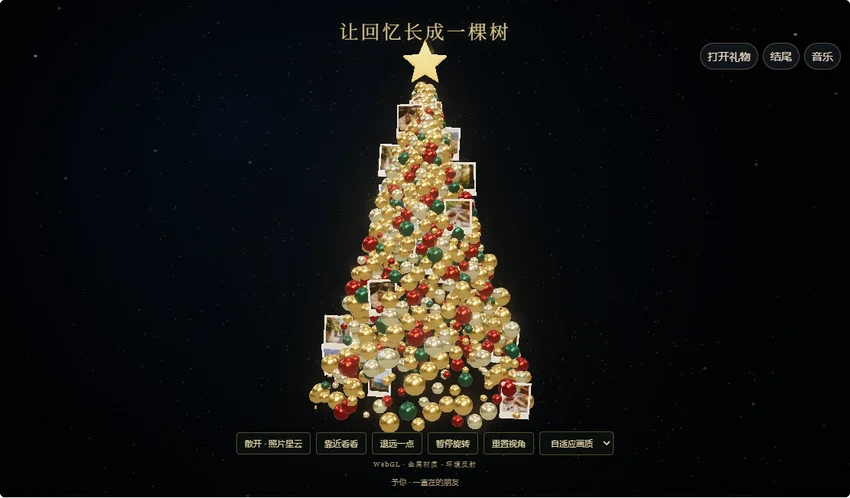
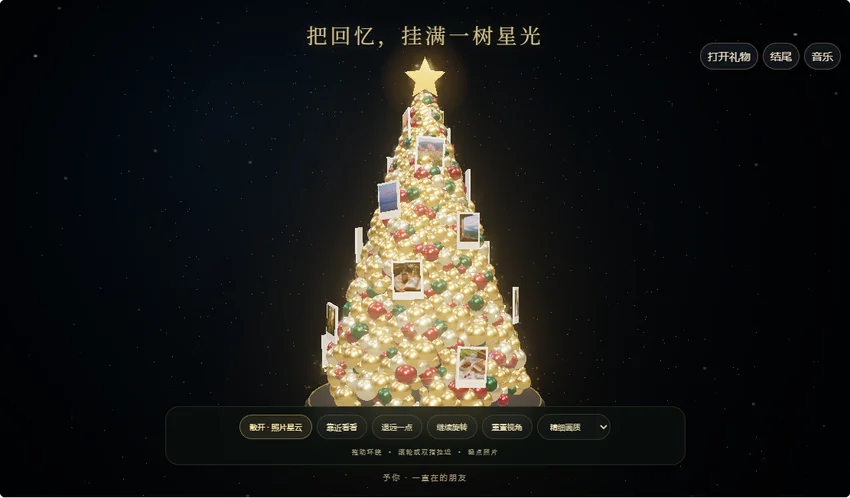
feat(tree): polish metallic ornaments, lighting and memory cloud

Changed region(s): [[0.2753, 0.0301, 0.7341, 0.994]]

diff --git a/tree-webgl.js b/tree-webgl.js
@@ -12,25 +12,25 @@ const rand=n=>{const x=Math.sin(n*127.13+31.77)*43758.5453;return x-Math.floor(x
 function make(stage,gift,design){
  const canvas=document.createElement('canvas');canvas.className='gift-webgl-canvas';canvas.setAttribute('aria-label','金色装饰球与照片构成的三维树，拖动旋转、滚轮或双指缩放，点击照片查看');
  let renderer;try{renderer=new THREE.WebGLRenderer({canvas,antialias:false,alpha:false,powerPreference:'high-performance'});}catch(e){throw Error('当前设备无法启用 WebGL，已保留基础照片树。');}
- renderer.setClearColor(0x030504);renderer.toneMapping=THREE.ACESFilmicToneMapping;renderer.toneMappingExposure=.8;renderer.outputColorSpace=THREE.SRGBColorSpace;stage.append(canvas);
+ renderer.setClearColor(0x030504);renderer.toneMapping=THREE.ACESFilmicToneMapping;renderer.toneMappingExposure=.88;renderer.outputColorSpace=THREE.SRGBColorSpace;stage.append(canvas);
  const scene=new THREE.Scene();scene.fog=new THREE.FogExp2(0x030504,.012);
- const camera=new THREE.PerspectiveCamera(43,1,.1,120);camera.position.set(0,.4,15.7);
+ const camera=new THREE.PerspectiveCamera(43,1,.1,120);camera.position.set(0,.4,17.1);
  const controls=new OrbitControls(camera,canvas);controls.enableDamping=true;controls.dampingFactor=.07;controls.target.set(0,-.15,0);controls.minDistance=3.2;controls.maxDistance=25;controls.enablePan=true;controls.autoRotate=!reduced.matches;controls.autoRotateSpeed=.35;controls.maxPolarAngle=Math.PI*.91;controls.minPolarAngle=.12;
- const pmrem=new THREE.PMREMGenerator(renderer),room=new RoomEnvironment();const environment=pmrem.fromScene(room,.04);scene.environment=environment.texture;scene.environmentIntensity=.7;room.dispose();pmrem.dispose();
- scene.add(new THREE.HemisphereLight(0xffeac4,0x10151c,.6));const key=new THREE.DirectionalLight(0xfff4d6,2);key.position.set(3,6,5);scene.add(key);const rim=new THREE.DirectionalLight(0xc4d7ff,1.4);rim.position.set(-5,3,-2);scene.add(rim);const warm=new THREE.PointLight(0xffb84a,12,22,2);warm.position.set(-3,1,4);scene.add(warm);
- const composer=new EffectComposer(renderer);composer.addPass(new RenderPass(scene,camera));const bloom=new UnrealBloomPass(new THREE.Vector2(600,600),.25,.28,2.7);composer.addPass(bloom);composer.addPass(new OutputPass());
- let group=null,items=[],photoMeshes=[],generation=0,currentGift,currentDesign,spread=0,targetSpread=0,quality='auto',automatic=true,frame=0,last=0,lastDraw=0,disposed=false,size='',pointer=null,frames=[],fpsSamples=0,builtMobile=null;
+ const pmrem=new THREE.PMREMGenerator(renderer),room=new RoomEnvironment();const environment=pmrem.fromScene(room,.04);scene.environment=environment.texture;scene.environmentIntensity=.8;room.dispose();pmrem.dispose();
+ scene.add(new THREE.HemisphereLight(0xffeac4,0x10151c,.6));const key=new THREE.DirectionalLight(0xfff4d6,2.3);key.position.set(3,6,5);scene.add(key);const rim=new THREE.DirectionalLight(0xbacfff,1.5);rim.position.set(-5,3,-2);scene.add(rim);const warm=new THREE.PointLight(0xffb84a,12,22,2);warm.position.set(-3,1,4);scene.add(warm);
+ const composer=new EffectComposer(renderer);composer.addPass(new RenderPass(scene,camera));const bloom=new UnrealBloomPass(new THREE.Vector2(600,600),.35,.3,2.5);composer.addPass(bloom);composer.addPass(new OutputPass());
+ let group=null,items=[],photoMeshes=[],generation=0,currentGift,currentDesign,spread=0,targetSpread=0,quality='auto',automatic=!reduced.matches,frame=0,last=0,lastDraw=0,disposed=false,size='',pointer=null,frames=[],fpsSamples=0,builtMobile=null,lastSpread=-1,starLight=null,sparkles=null,ground=null,garland=null,ornamentCount=0;
  const raycaster=new THREE.Raycaster(),mouse=new THREE.Vector2(),temp=new THREE.Object3D(),targetVector=new THREE.Vector3();
  const ui=document.createElement('div');ui.className='tree-webgl-controls';
  const button=(text,fn)=>{const b=document.createElement('button');b.textContent=text;b.onclick=fn;ui.append(b);return b;};
  const burst=button('散开 · 照片星云',()=>{targetSpread=targetSpread?0:1;burst.textContent=targetSpread?'聚合 · 圣诞树':'散开 · 照片星云';});
  button('靠近看看',()=>camera.position.lerp(controls.target,.25));button('退远一点',()=>camera.position.sub(controls.target).multiplyScalar(1.3).add(controls.target));
- const rotate=button('暂停旋转',()=>{automatic=!automatic;controls.autoRotate=automatic;rotate.textContent=automatic?'暂停旋转':'继续旋转';});
- button('重置视角',()=>{camera.position.set(0,.4,15.7);controls.target.set(0,-.15,0);controls.update();});
+ const rotate=button(automatic?'暂停旋转':'继续旋转',()=>{automatic=!automatic;controls.autoRotate=automatic;rotate.textContent=automatic?'暂停旋转':'继续旋转';});
+ button('重置视角',()=>{camera.position.set(0,.4,17.1);controls.target.set(0,-.15,0);controls.update();});
  const qualitySelect=document.createElement('select');qualitySelect.setAttribute('aria-label','照片树画质');qualitySelect.innerHTML='<option value="auto">自适应画质</option><option value="low">流畅画质</option><option value="high">精细画质</option>';qualitySelect.onchange=()=>{quality=qualitySelect.value;size='';bloom.enabled=quality!=='low';};ui.append(qualitySelect);
- const status=document.createElement('span');status.className='tree-webgl-status';status.textContent='WebGL · 金属材质 · 环境反射';ui.append(status);stage.append(ui);ui.addEventListener('pointerdown',e=>e.stopPropagation());
+ const status=document.createElement('span');status.className='tree-webgl-status';status.textContent='拖动环绕 · 滚轮或双指拉近 · 轻点照片';ui.append(status);stage.append(ui);ui.addEventListener('pointerdown',e=>e.stopPropagation());
  function releaseGroup(){if(!group)return;const geometries=new Set(),materials=new Set(),textures=new Set();group.traverse(n=>{if(n.geometry)geometries.add(n.geometry);for(const m of n.material?(Array.isArray(n.material)?n.material:[n.material]):[]){materials.add(m);if(m.map)textures.add(m.map);}});geometries.forEach(g=>g.dispose());textures.forEach(t=>t.dispose());materials.forEach(m=>m.dispose());scene.remove(group);group=null;items=[];photoMeshes=[];}
- function assembled(i,count){const t=(i+.5)/count,a=i*2.399963,tree=currentDesign.tree;let y=3.8-t*7.7,r=(.13+t*2.65)*(.76+.24*rand(i+5));if(tree==='sakura'){const p=Math.acos(1-2*t);return new THREE.Vector3(Math.sin(p)*Math.cos(a)*3.3,Math.cos(p)*2.1+1.1,Math.sin(p)*Math.sin(a)*3);}if(tree==='willow'){r=2.9*Math.sin(t*Math.PI*.55);y=3.6-7.4*t*t;}return new THREE.Vector3(Math.cos(a)*r,y,Math.sin(a)*r);}
+ function assembled(i,count){const t=(i+.5)/count,a=i*2.399963,tree=currentDesign.tree;let y=3.8-t*7.7,r=(.13+t*2.65)*(.84+.16*rand(i+5));if(tree==='sakura'){const p=Math.acos(1-2*t);return new THREE.Vector3(Math.sin(p)*Math.cos(a)*3.3,Math.cos(p)*2.1+1.1,Math.sin(p)*Math.sin(a)*3);}if(tree==='willow'){r=2.9*Math.sin(t*Math.PI*.55);y=3.6-7.4*t*t;}return new THREE.Vector3(Math.cos(a)*r,y,Math.sin(a)*r);}
  function scattered(i){const a=i*2.399963,t=rand(i+13),r=3+rand(i+29)*4.7;return new THREE.Vector3(Math.cos(a)*r,(t-.5)*10,Math.sin(a)*r);}
  function track(object,i,count,scale,instanced,index){const home=assembled(i,count),away=scattered(i);items.push({object,home,away,scale,instanced,index,spin:new THREE.Euler(rand(i+21)*Math.PI,rand(i+7)*Math.PI,rand(i+4)*Math.PI)});return home;}
  let backdrop=null,backdropKey='',backdropGeneration=0;
@@ -38,19 +38,26 @@ function make(stage,gift,design){
  const texture=new THREE.CanvasTexture(c);texture.colorSpace=THREE.SRGBColorSpace;backdrop?.dispose();backdrop=texture;scene.background=texture;scene.fog.color.set(palette[1]);canvas.dataset.background=d.background;
  if(d.background==='sunroom')new THREE.TextureLoader().load('./assets/stationery/sunroom-v1.png',texture=>{if(disposed||token!==backdropGeneration){texture.dispose();return;}texture.colorSpace=THREE.SRGBColorSpace;backdrop?.dispose();backdrop=texture;scene.background=texture;});
  }
- function update(next,d){setBackdrop(d);bloom.strength=.1+d.glow/100*.3;warm.intensity=6+d.glow*.1;const unchanged=currentGift&&currentGift.photos.length===next.photos.length&&currentGift.photos.every((p,i)=>p.src===next.photos[i].src&&p.caption===next.photos[i].caption&&p.name===next.photos[i].name)&&['tree','paper','color','font'].every(k=>currentDesign[k]===d[k])&&builtMobile===(stage.clientWidth<650);currentGift=next;currentDesign=d;if(unchanged)return;const token=++generation;releaseGroup();group=new THREE.Group();scene.add(group);targetSpread=0;spread=0;burst.textContent='散开 · 照片星云';bloom.strength=.1+d.glow/100*.3;
-  const mobile=stage.clientWidth<650;builtMobile=mobile;const count=mobile?440:780,sphere=new THREE.SphereGeometry(1,mobile?16:24,mobile?12:16),box=new THREE.BoxGeometry(1,1,1);
-  const gold=new THREE.MeshStandardMaterial({color:d.color,metalness:1,roughness:.18,envMapIntensity:1.3});
-  const red=new THREE.MeshStandardMaterial({color:0x9e2018,metalness:.82,roughness:.19,envMapIntensity:1.1});
-  const champagne=new THREE.MeshStandardMaterial({color:0xf1dca6,metalness:.96,roughness:.11,envMapIntensity:1.2});
+ function update(next,d){setBackdrop(d);bloom.strength=.12+d.glow/100*.38;warm.intensity=6+d.glow*.1;const unchanged=currentGift&&currentGift.photos.length===next.photos.length&&currentGift.photos.every((p,i)=>p.src===next.photos[i].src&&p.caption===next.photos[i].caption&&p.name===next.photos[i].name)&&['tree','paper','color','font'].every(k=>currentDesign[k]===d[k])&&builtMobile===(stage.clientWidth<650);currentGift=next;currentDesign=d;if(unchanged)return;const token=++generation;releaseGroup();group=new THREE.Group();scene.add(group);targetSpread=0;spread=0;burst.textContent='散开 · 照片星云';bloom.strength=.1+d.glow/100*.3;
+  const mobile=stage.clientWidth<650;builtMobile=mobile;const count=mobile?680:1160;ornamentCount=count;lastSpread=-1;const sphere=new THREE.SphereGeometry(1,mobile?16:20,mobile?12:14),box=new THREE.BoxGeometry(1,1,1);
+  const gold=new THREE.MeshPhysicalMaterial({color:d.color,metalness:1,roughness:.2,envMapIntensity:1.2,clearcoat:.65,clearcoatRoughness:.16});
+  const red=new THREE.MeshPhysicalMaterial({color:0x850f1e,metalness:.35,roughness:.2,envMapIntensity:1.5,clearcoat:1,clearcoatRoughness:.08});
+  const champagne=new THREE.MeshStandardMaterial({color:0xf1dca6,metalness:.96,roughness:.2,envMapIntensity:1.15});
   const green=new THREE.MeshStandardMaterial({color:d.tree==='sakura'?0xd681a7:0x215b42,metalness:.72,roughness:.23,envMapIntensity:1.1});
-  const mats=[gold,red,champagne,green],bins=[[],[],[],[]];for(let i=0;i<count;i++)bins[i%10<5?0:i%10<7?1:i%10<9?2:3].push(i);
-  bins.forEach((indices,k)=>{const mesh=new THREE.InstancedMesh(sphere,mats[k],indices.length);mesh.instanceMatrix.setUsage(THREE.DynamicDrawUsage);mesh.frustumCulled=false;group.add(mesh);indices.forEach((i,j)=>track(mesh,i,count,.065+rand(i+81)*(.12+.06*i/count),true,j));});
+  const mats=[gold,red,champagne,green],bins=[[],[],[],[]];for(let i=0;i<count;i++)bins[i%12<7?0:i%12<9?1:i%12<11?2:3].push(i);
+  bins.forEach((indices,k)=>{const mesh=new THREE.InstancedMesh(sphere,mats[k],indices.length);mesh.instanceMatrix.setUsage(THREE.DynamicDrawUsage);mesh.frustumCulled=false;group.add(mesh);indices.forEach((i,j)=>track(mesh,i,count,.085+Math.pow(rand(i+81),.65)*(.15+.065*i/count),true,j));});
   const cubes=new THREE.InstancedMesh(box,gold,100);cubes.frustumCulled=false;group.add(cubes);for(let i=0;i<100;i++)track(cubes,(i+.5)/100*count,count,.045+rand(i+901)*.08,true,i);
-  const lampMat=new THREE.MeshStandardMaterial({color:0xffebbd,emissive:0xffd988,emissiveIntensity:4,roughness:.3});const lamps=new THREE.InstancedMesh(sphere,lampMat,65);lamps.frustumCulled=false;group.add(lamps);for(let i=0;i<65;i++)track(lamps,(i+.5)/65*count,count,.025+rand(i+401)*.025,true,i);
+  const lampMat=new THREE.MeshStandardMaterial({color:0xffebbd,emissive:0xffd988,emissiveIntensity:4,roughness:.3});const lamps=new THREE.InstancedMesh(sphere,lampMat,mobile?100:160);lamps.frustumCulled=false;group.add(lamps);for(let i=0;i<lamps.count;i++){const it=track(lamps,(i+.5)/lamps.count*count,count,.024+rand(i+401)*.023,true,i);const t=(i+.5)/lamps.count,a=t*Math.PI*2*7,r=.17+t*2.75;it.set(Math.cos(a)*r,3.8-t*7.7,Math.sin(a)*r);}
+  // One shared mesh for the small metal crowns; no per-ornament draw calls.
+  const crowns=new THREE.InstancedMesh(new THREE.CylinderGeometry(.24,.3,.28,8),champagne,count);crowns.frustumCulled=false;group.add(crowns);for(let i=0;i<count;i++){const r=.085+Math.pow(rand(i+81),.65)*(.15+.065*i/count);const home=track(crowns,i,count,r,true,i);home.y+=r;}
+  if(d.tree==='christmas'){const curve=[];for(let i=0;i<=280;i++){const t=i/280,a=t*Math.PI*14,r=.17+t*2.75;curve.push(new THREE.Vector3(Math.cos(a)*r,3.8-t*7.7,Math.sin(a)*r));}garland=new THREE.Mesh(new THREE.TubeGeometry(new THREE.CatmullRomCurve3(curve),280,.012,4,false),new THREE.MeshStandardMaterial({color:0xb89956,metalness:.85,roughness:.35,transparent:true,opacity:.7}));group.add(garland);}else garland=null;
   const starShape=new THREE.Shape();for(let i=0;i<10;i++){const a=Math.PI/2+i*Math.PI/5,r=i%2?.23:.53,x=Math.cos(a)*r,y=Math.sin(a)*r;if(!i)starShape.moveTo(x,y);else starShape.lineTo(x,y);}starShape.closePath();const star=new THREE.Mesh(new THREE.ExtrudeGeometry(starShape,{depth:.12,bevelEnabled:true,bevelSize:.025,bevelThickness:.025,bevelSegments:1,steps:1}),new THREE.MeshStandardMaterial({color:0xffd66e,metalness:.8,roughness:.18,emissive:0xe7a530,emissiveIntensity:1.3}));star.position.set(0,4.4,0);group.add(star);
-  const loader=new THREE.TextureLoader();next.photos.forEach((p,i)=>{const photoGroup=new THREE.Group(),frameMat=new THREE.MeshStandardMaterial({color:d.paper==='noir'?0x332a20:0xf1e4c9,metalness:.12,roughness:.56});const frameMesh=new THREE.Mesh(new THREE.BoxGeometry(.67,.82,.045),frameMat);photoGroup.add(frameMesh);const material=new THREE.MeshBasicMaterial({color:0xffffff,toneMapped:false});const image=new THREE.Mesh(new THREE.PlaneGeometry(.57,.61),material);image.position.set(0,.055,.026);image.userData.photo=p;photoGroup.add(image);photoMeshes.push(image);group.add(photoGroup);const home=track(photoGroup,(i+.5)/Math.max(1,next.photos.length)*count,count,1,false);home.multiplyScalar(1.08);home.y=Math.min(3.1,home.y);photoGroup.rotation.set((rand(i+99)-.5)*.3,(rand(i+53)-.5)*.6,(rand(i+11)-.5)*.25);loader.load(p.src,texture=>{if(disposed||generation!==token){texture.dispose();return;}texture.colorSpace=THREE.SRGBColorSpace;texture.anisotropy=Math.min(4,renderer.capabilities.getMaxAnisotropy());const aspect=texture.image.width/texture.image.height,target=.57/.61;if(aspect>target){texture.repeat.x=target/aspect;texture.offset.x=(1-texture.repeat.x)/2;}else{texture.repeat.y=aspect/target;texture.offset.y=(1-texture.repeat.y)/2;}material.map=texture;material.needsUpdate=true;});
-   const labelCanvas=document.createElement('canvas');labelCanvas.width=512;labelCanvas.height=64;const labelContext=labelCanvas.getContext('2d');labelContext.font='28px '+({serif:'SimSun,serif',sans:'Microsoft YaHei,sans-serif',kai:'KaiTi,serif',elegant:'Georgia,SimSun,serif'}[d.font]||'SimSun,serif');labelContext.fillStyle=d.paper==='noir'?'#e7d4ad':'#5c4a33';labelContext.textAlign='center';labelContext.fillText((p.caption||p.name||'Our memories').slice(0,24),256,42,490);const labelTexture=new THREE.CanvasTexture(labelCanvas);labelTexture.colorSpace=THREE.SRGBColorSpace;const labelMesh=new THREE.Mesh(new THREE.PlaneGeometry(.57,.072),new THREE.MeshBasicMaterial({map:labelTexture,transparent:true,toneMapped:false,depthWrite:false}));labelMesh.position.set(0,-.325,.027);photoGroup.add(labelMesh);
+  function glowTexture(cross=false){const c=document.createElement('canvas');c.width=c.height=128;const x=c.getContext('2d'),g=x.createRadialGradient(64,64,1,64,64,64);g.addColorStop(0,'#fff9df');g.addColorStop(.12,'#ffdc89cc');g.addColorStop(.38,'#f4bd5733');g.addColorStop(1,'#e6ae4000');x.fillStyle=g;x.fillRect(0,0,128,128);if(cross){x.strokeStyle='#fff4caaa';x.lineWidth=1;x.beginPath();x.moveTo(64,17);x.lineTo(64,111);x.moveTo(17,64);x.lineTo(111,64);x.stroke();}const t=new THREE.CanvasTexture(c);t.colorSpace=THREE.SRGBColorSpace;return t;}
+  starLight=new THREE.Sprite(new THREE.SpriteMaterial({map:glowTexture(),transparent:true,opacity:.65,blending:THREE.AdditiveBlending,depthWrite:false,toneMapped:false}));starLight.position.set(0,4.45,-.12);starLight.scale.set(2.5,2.5,1);group.add(starLight);
+  ground=new THREE.Group();const pedestal=new THREE.Mesh(new THREE.CylinderGeometry(3.12,3.23,.12,72),new THREE.MeshStandardMaterial({color:0x322918,metalness:.8,roughness:.3}));pedestal.position.y=-4.22;ground.add(pedestal);const rimRing=new THREE.Mesh(new THREE.TorusGeometry(3.12,.018,6,96),new THREE.MeshBasicMaterial({color:0xb99751,transparent:true,opacity:.65}));rimRing.rotation.x=Math.PI/2;rimRing.position.y=-4.15;ground.add(rimRing);group.add(ground);
+  const glitterCount=mobile?120:220,glitterPos=new Float32Array(glitterCount*3);for(let i=0;i<glitterCount;i++){const t=(i+.5)/glitterCount,a=i*2.399963,r=.3+t*3.0;glitterPos.set([Math.cos(a)*r,3.9-t*8,Math.sin(a)*r],i*3);}const glitterGeo=new THREE.BufferGeometry();glitterGeo.setAttribute('position',new THREE.BufferAttribute(glitterPos,3));sparkles=new THREE.Points(glitterGeo,new THREE.PointsMaterial({map:glowTexture(true),color:0xffe3a3,size:.17,transparent:true,opacity:.75,blending:THREE.AdditiveBlending,depthWrite:false,toneMapped:false}));group.add(sparkles);
+  const loader=new THREE.TextureLoader();next.photos.forEach((p,i)=>{const photoGroup=new THREE.Group(),frameMat=new THREE.MeshStandardMaterial({color:d.paper==='noir'?0x332a20:0xf1e4c9,metalness:.12,roughness:.56});const frameMesh=new THREE.Mesh(new THREE.BoxGeometry(.76,.94,.055),frameMat);photoGroup.add(frameMesh);const material=new THREE.MeshBasicMaterial({color:0xffffff,toneMapped:false});const image=new THREE.Mesh(new THREE.PlaneGeometry(.65,.69),material);image.position.set(0,.065,.032);image.userData.photo=p;photoGroup.add(image);photoMeshes.push(image);group.add(photoGroup);const home=track(photoGroup,(i+.5)/Math.max(1,next.photos.length)*count,count,1,false);if(d.tree==='christmas'){const t=(i+.9)/(next.photos.length+1.8),a=i*2.399963+.5,r=(.18+t*2.85)*1.13;home.set(Math.cos(a)*r,3.8-t*7.7,Math.sin(a)*r);}else home.multiplyScalar(1.15);home.y=Math.min(3.1,home.y);photoGroup.rotation.set(-.04,Math.atan2(home.x,home.z),(rand(i+11)-.5)*.22);photoGroup.userData.homeRotation=photoGroup.quaternion.clone();loader.load(p.src,texture=>{if(disposed||generation!==token){texture.dispose();return;}texture.colorSpace=THREE.SRGBColorSpace;texture.anisotropy=Math.min(4,renderer.capabilities.getMaxAnisotropy());const aspect=texture.image.width/texture.image.height,target=.65/.69;if(aspect>target){texture.repeat.x=target/aspect;texture.offset.x=(1-texture.repeat.x)/2;}else{texture.repeat.y=aspect/target;texture.offset.y=(1-texture.repeat.y)/2;}material.map=texture;material.needsUpdate=true;});
+   const labelCanvas=document.createElement('canvas');labelCanvas.width=512;labelCanvas.height=64;const labelContext=labelCanvas.getContext('2d');labelContext.font='28px '+({serif:'SimSun,serif',sans:'Microsoft YaHei,sans-serif',kai:'KaiTi,serif',elegant:'Georgia,SimSun,serif'}[d.font]||'SimSun,serif');labelContext.fillStyle=d.paper==='noir'?'#e7d4ad':'#5c4a33';labelContext.textAlign='center';labelContext.fillText((p.caption||p.name||'Our memories').slice(0,24),256,42,490);const labelTexture=new THREE.CanvasTexture(labelCanvas);labelTexture.colorSpace=THREE.SRGBColorSpace;const labelMesh=new THREE.Mesh(new THREE.PlaneGeometry(.65,.082),new THREE.MeshBasicMaterial({map:labelTexture,transparent:true,toneMapped:false,depthWrite:false}));labelMesh.position.set(0,-.367,.034);photoGroup.add(labelMesh);
   });
   const dustGeometry=new THREE.BufferGeometry(),pos=new Float32Array(550*3);for(let i=0;i<550;i++){pos[i*3]=(rand(i+3)-.5)*30;pos[i*3+1]=(rand(i+773)-.5)*24;pos[i*3+2]=-7-rand(i+193)*15;}dustGeometry.setAttribute('position',new THREE.BufferAttribute(pos,3));group.add(new THREE.Points(dustGeometry,new THREE.PointsMaterial({color:0xa58d55,size:.025,transparent:true,opacity:.55,depthWrite:false})));
  }
@@ -59,12 +66,12 @@ function make(stage,gift,design){
  let lost=false;canvas.addEventListener('webglcontextlost',e=>{e.preventDefault();lost=true;status.textContent='图形上下文中断，请切换模板后重试';});
  function draw(t){if(disposed)return;frame=requestAnimationFrame(draw);if(stage.querySelector('.gift-ritual'))return;const rect=stage.getBoundingClientRect();if(lost||document.hidden||!stage.offsetWidth||rect.bottom<0||rect.top>innerHeight){last=t;return;}if(builtMobile!==(stage.clientWidth<650)){update(currentGift,currentDesign);}const interval=quality==='low'?40:32;if(t-lastDraw<interval)return;const dt=Math.min(.08,(t-last)/1000||.016);last=t;lastDraw=t;
   const w=stage.clientWidth,h=stage.clientHeight,dpr=quality==='high'?Math.min(devicePixelRatio,1.8):quality==='low'?1:Math.min(devicePixelRatio,1.35),key=w+':'+h+':'+dpr;if(key!==size){size=key;renderer.setPixelRatio(dpr);renderer.setSize(w,h,false);composer.setPixelRatio(dpr);composer.setSize(w,h);camera.aspect=w/h;camera.updateProjectionMatrix();}
-  spread=THREE.MathUtils.damp(spread,targetSpread,3.7,dt);const changed=new Set();for(const item of items){targetVector.lerpVectors(item.home,item.away,spread);if(item.instanced){temp.position.copy(targetVector);temp.rotation.copy(item.spin);temp.scale.setScalar(item.scale);temp.updateMatrix();item.object.setMatrixAt(item.index,temp.matrix);changed.add(item.object);}else{item.object.position.copy(targetVector);if(spread>.2)item.object.quaternion.slerp(camera.quaternion,.04);}}changed.forEach(mesh=>mesh.instanceMatrix.needsUpdate=true);
-  controls.update(dt);renderer.info.autoReset=false;renderer.info.reset();const begin=performance.now();composer.render();const cost=performance.now()-begin;frames.push(cost);if(frames.length>60)frames.shift();if(++fpsSamples%90===0){const average=frames.reduce((n,x)=>n+x,0)/frames.length;if(quality==='auto'&&average>24){bloom.enabled=false;qualitySelect.value='low';quality='low';size='';status.textContent='已切换流畅画质 · 保留金属材质';}}
-  canvas.dataset.drawCalls=String(renderer.info.render.calls);canvas.dataset.orbs=String(stage.clientWidth<650?440:780);canvas.dataset.mode=targetSpread?'cloud':'tree';canvas.dataset.webgl='ready';
+  spread=THREE.MathUtils.damp(spread,targetSpread,3.7,dt);const changed=new Set();const moving=Math.abs(spread-lastSpread)>.00015;for(const item of items){targetVector.lerpVectors(item.home,item.away,spread);if(item.instanced){if(!moving)continue;temp.position.copy(targetVector);temp.rotation.copy(item.spin);temp.scale.setScalar(item.scale);temp.updateMatrix();item.object.setMatrixAt(item.index,temp.matrix);changed.add(item.object);}else{item.object.position.copy(targetVector);if(spread>.2)item.object.quaternion.slerp(camera.quaternion,.08);else if(item.object.userData.homeRotation)item.object.quaternion.slerp(item.object.userData.homeRotation,.12);}}changed.forEach(mesh=>mesh.instanceMatrix.needsUpdate=true);
+  lastSpread=spread;if(garland){garland.visible=spread<.98;garland.material.opacity=(1-spread)*.7;}if(ground)ground.visible=spread<.6;if(starLight)starLight.material.opacity=(currentDesign.glow/100)*(1-spread)*(.55+(reduced.matches?0:Math.sin(t*.0012)*.1));if(sparkles){sparkles.visible=spread<.8;sparkles.material.opacity=(1-spread)*(.65+(reduced.matches?0:Math.sin(t*.0016)*.15));}controls.update(dt);renderer.info.autoReset=false;renderer.info.reset();const begin=performance.now();composer.render();const cost=performance.now()-begin;frames.push(cost);if(frames.length>60)frames.shift();if(++fpsSamples%90===0){const average=frames.reduce((n,x)=>n+x,0)/frames.length;if(quality==='auto'&&average>24){bloom.enabled=false;qualitySelect.value='low';quality='low';size='';status.textContent='流畅模式 · 拖动探索，轻点照片';}}
+  canvas.dataset.drawCalls=String(renderer.info.render.calls);canvas.dataset.orbs=String(ornamentCount);canvas.dataset.mode=targetSpread?'cloud':'tree';canvas.dataset.webgl='ready';
  }
  update(gift,design);frame=requestAnimationFrame(draw);
- return {stage,update,dispose(){disposed=true;cancelAnimationFrame(frame);controls.dispose();releaseGroup();backdrop?.dispose();environment.dispose();composer.dispose();renderer.dispose();renderer.forceContextLoss();canvas.remove();ui.remove();},metrics(){return {calls:renderer.info.render.calls,triangles:renderer.info.render.triangles,mean:frames.reduce((n,x)=>n+x,0)/Math.max(1,frames.length),photos:photoMeshes.map(mesh=>{const p=mesh.getWorldPosition(new THREE.Vector3()).project(camera);return{x:(p.x+1)/2,y:(1-p.y)/2};})};}};
+ return {stage,update,dispose(){disposed=true;cancelAnimationFrame(frame);controls.dispose();releaseGroup();backdrop?.dispose();environment.dispose();composer.dispose();renderer.dispose();renderer.forceContextLoss();canvas.remove();ui.remove();},metrics(){return {calls:renderer.info.render.calls,triangles:renderer.info.render.triangles,ornaments:ornamentCount,instanced:items.filter(i=>i.instanced).length,mean:frames.reduce((n,x)=>n+x,0)/Math.max(1,frames.length),photos:photoMeshes.map(mesh=>{const p=mesh.getWorldPosition(new THREE.Vector3()).project(camera);return{x:(p.x+1)/2,y:(1-p.y)/2};})};}};
 }
 window.PagetoyouTree3D={mount(stage,gift,design){if(active?.stage===stage){active.update(gift,design);return active;}if(active){active.dispose();active=null;}active=make(stage,gift,design);return active;},unmount(){active?.dispose();active=null;},metrics(){return active?.metrics();}};
 window.dispatchEvent(new Event('pgy:tree-ready'));

diff --git a/tree-webgl.css b/tree-webgl.css
@@ -1,2 +1,8 @@
 .gift-webgl-canvas{position:absolute;inset:0;width:100%;height:100%;display:block;touch-action:none}.tree-webgl-controls{position:absolute;z-index:7;bottom:38px;left:14px;right:14px;display:flex;gap:7px;justify-content:center;align-items:center;flex-wrap:wrap}#gift-studio .tree-webgl-controls button,#gift-studio .tree-webgl-controls select{font:11px 'Microsoft YaHei',sans-serif;border:1px solid #bba56366;background:#0b100ddb;color:#e9d6a9;padding:6px 10px;border-radius:4px;width:auto}.tree-webgl-status{flex-basis:100%;text-align:center;font:9px Georgia,serif;letter-spacing:1px;color:#a59673}#gift-studio .stage.mode-tree[data-gift-background]{background:#030504!important}#gift-studio .stage.mode-tree .stage-title{font-family:Georgia,SimSun,serif!important;letter-spacing:3px;color:#d9c58d;font-size:25px;top:22px;text-shadow:0 0 18px #d3a94544}#gift-studio .stage.mode-tree .stage-sign{font-size:10px;color:#a99775}.tree-webgl-fallback{position:absolute;left:15px;bottom:120px;color:#d8c7a2;font-size:11px;z-index:6}@media(max-width:700px){#gift-studio .tree-webgl-controls button,#gift-studio .tree-webgl-controls select{font-size:10px;padding:6px 8px}.tree-webgl-controls{gap:5px;bottom:36px}#gift-studio .stage.mode-tree .stage-title{font-size:20px;letter-spacing:1px}}
 #gift-studio .preview-wrap.full{height:100dvh!important;width:100vw;align-self:stretch!important;display:flex}#gift-studio .preview-wrap.full .stage{min-height:0;flex:1;height:auto!important}
+/* A quiet exhibition frame around the luminous tree. */
+#gift-studio .tree-webgl-controls{bottom:42px;gap:6px;left:20px;right:20px;padding:9px 12px;background:#09100dbd;backdrop-filter:blur(12px);border:1px solid #d2b67526;border-radius:18px;max-width:680px;margin:auto}
+#gift-studio .tree-webgl-controls button,#gift-studio .tree-webgl-controls select{background:#ffffff06;border:1px solid #c7ab6a33;border-radius:20px;color:#e3d5af;font-size:10px;padding:8px 12px}
+#gift-studio .tree-webgl-controls button:first-child{background:#b99b5c24;border-color:#c1a15e88;color:#ffe4a5}.tree-webgl-status{color:#b2a480;letter-spacing:1px;padding-top:3px;font:9px/1.6 SimSun}
+#gift-studio .stage.mode-tree .stage-title{font-size:27px;font-weight:400;letter-spacing:4px;top:26px}#gift-studio .stage.mode-tree .stage-sign{letter-spacing:2px;bottom:18px}
+@media(max-width:700px){#gift-studio .tree-webgl-controls{left:10px;right:10px;bottom:35px;padding:8px 6px;gap:4px;border-radius:13px}#gift-studio .tree-webgl-controls button,#gift-studio .tree-webgl-controls select{padding:7px 9px;font-size:9px}#gift-studio .stage.mode-tree .stage-title{font-size:20px;letter-spacing:2px}}

diff --git a/CHANGELOG.md b/CHANGELOG.md
@@ -127,3 +127,14 @@
 - 麻绳与火漆独立配置；选绳默认不使用火漆。新增曲线绳结与分段松结、翻盖、抽信、展信动画。
 - 首页作品墙与四个主展示使用当前产品实际渲染截图，新增纸品专题与制作流程介绍。
 - 按用户要求仅保存本地版本，不推送、不部署；线上仍保留上一版本。
+
+## v1.4.0-local.1 · 3D 照片树精修（本地待体验）
+
+- 参考 fundbay/christmas-tree 的香槟金、深红点缀、环境反射与灯光层次，独立改进现有渲染器，没有引入摄像头或手势依赖。
+- 丰富球体密度、清漆红球、金属冠帽、七圈螺旋灯带、星形微光和金属底座；校准曝光与泛光，保留照片可读性。
+- 照片扩大相纸边框并分散到树的外层，散开时朝向镜头；支持鼠标／触摸环绕、缩放、聚合和照片点击详情。
+- 静止时跳过实例矩阵重复上传；小屏减少装饰和球面细分，保留低画质及自适应降级。关闭页面后释放新几何体和纹理。
+- 8 项测试与浏览器专项通过：聚合、散开、点击照片、背景切换、手机布局、画质切换、树种切换和退出释放。Windows 无头 Edge 使用软件 WebGL，不能据此保证所有真实手机帧率。
+- 仅本地保存，不推送、不部署。线上仍为 v1.2.0-netlify.2。
+
+参考源码：https://github.com/fundbay/christmas-tree （重点阅读 treeConfig、OrnamentFactory、EnvironmentManager、PostProcessing）。

diff --git a/项目决策记录.md b/项目决策记录.md
@@ -256,3 +256,5 @@
 2026-11-18：参考 Greenvelope 与 Paperless Post，实施六套原创信笺和成套选封体验。新增 suite、liner、stamp、recipient 样式字段，保持原 envelope 与旧礼物兼容。独立保存 v1.2.0-netlify.1，仍使用 deployment/netlify，不覆盖通用 master。素材来源、提示词及编码方式见 assets/stationery/PAPER-SUITES-v2.md。
 
 本次 v1.3 本地体验版：用户要求先本地体验后再决定上线。禁止自动部署本次修改。羊皮纸归并至贺卡，信封可跳过，绳结不强制搭配火漆；首页改用实际渲染的作品展示。
+
+3D 树精修：以 fundbay/christmas-tree 为视觉研究参考，保留现有鼠标与触摸交互，不接入摄像头或手势识别。版本 v1.4.0-local.1 仍只在本地体验，未经用户确认不得部署。

diff --git a/README.md b/README.md
@@ -1,8 +1,8 @@
-> 当前为本地待体验版本 v1.3.0-local.1，尚未部署。线上仍为 v1.2.0-netlify.2；本地运行地址 http://127.0.0.1:4193 。
+> 当前为本地待体验版本 v1.4.0-local.1，尚未部署。线上仍为 v1.2.0-netlify.2；本地运行地址 http://127.0.0.1:4193 。
 
 # 予页 · Netlify 专用版本
 
-版本：v1.3.0-local.1；分支：deployment/netlify。通用 Node / SQLite 版本保留在 master 与 v1.0.0-rc.2 标签，不合并覆盖。
+版本：v1.4.0-local.1；分支：deployment/netlify。通用 Node / SQLite 版本保留在 master 与 v1.0.0-rc.2 标签，不合并覆盖。
 
 线上站点：https://pagetoyou-doojinn.netlify.app 。
 

diff --git a/NETLIFY-PLAN.md b/NETLIFY-PLAN.md
@@ -1,8 +1,8 @@
-> 当前为本地待体验版本 v1.3.0-local.1，尚未部署。线上仍为 v1.2.0-netlify.2；本地运行地址 http://127.0.0.1:4193 。
+> 当前为本地待体验版本 v1.4.0-local.1，尚未部署。线上仍为 v1.2.0-netlify.2；本地运行地址 http://127.0.0.1:4193 。
 
 # Netlify 专用版本
 
-版本 v1.3.0-local.1，独立分支 deployment/netlify。原通用版本保持在 master / v1.0.0-rc.2。
+版本 v1.4.0-local.1，独立分支 deployment/netlify。原通用版本保持在 master / v1.0.0-rc.2。
 
 ## 架构
 
